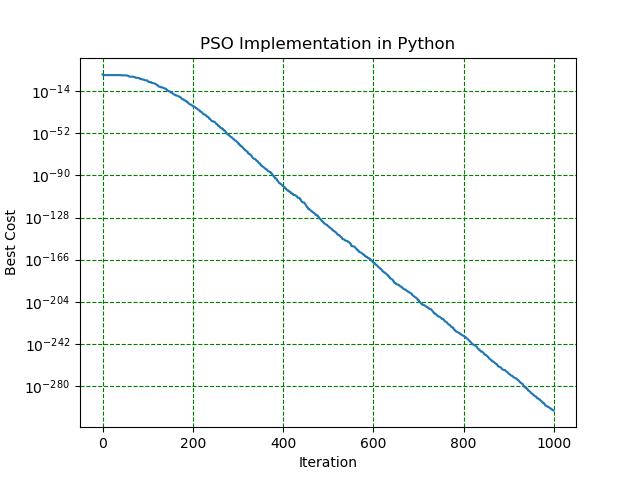
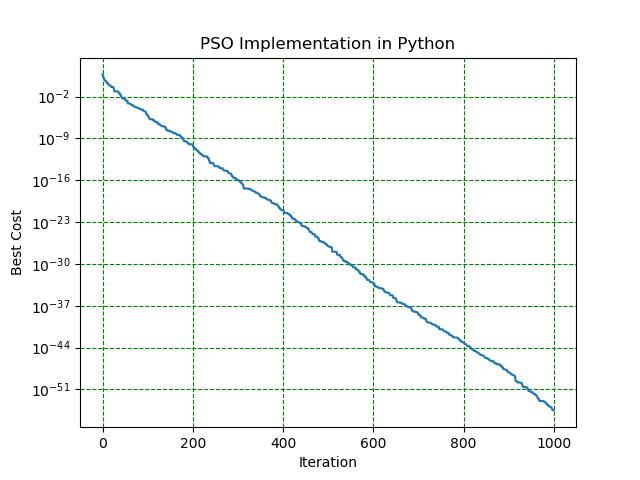
Updated PSO

diff --git a/pypso.py b/pypso.py
@@ -1,21 +1,32 @@
 import numpy as np
 import matplotlib.pyplot as plt
+import time
 
 # Variables Initialization
-VarMin = -10 	# Lower Bound
-VarMax = +10 	# Upper Bound
-Dim = 5 		# dimension for PSO 
-GlobalBestCost = 1000000000000000000000000000000 # Random Large Number
+VarMin = -10.0 	# Lower Bound
+VarMax = 10.0 	# Upper Bound
+MaxVel = 0.2*(VarMax - VarMin)
+MinVel = -MaxVel
+Dim = 10 		# dimension for PSO 
+GlobalBestCost = 10000 # Random Large Number
 RecordedBestCost = []
+
+# Clerc and Kennedy (2002) Constriction Coefficient
+k = 1
+phi_1 = 2.05
+phi_2 = 2.05
+phi = phi_1 + phi_2
+chi = (2*k)/(np.abs(2-phi-np.sqrt(phi**2 - 4*phi)))
+
 # PSO parameters
 global nPop
 global Maxit
 Maxit = 1000	# Maximum iteration
 nPop = 50	    # Population size
-w = 1 			# Inertia coefficient
-damp = 0.99		# Damping ration of inertia
-c1 = 2			# Personal acceleration coefficient
-c2 = 2 			# Social acceleration coefficient
+w = chi 			# Inertia coefficient
+damp = 1		# Damping ration of inertia
+c1 = chi*phi_1			# Personal acceleration coefficient
+c2 = chi*phi_2 			# Social acceleration coefficient
 
 # Objective Function
 def Cost(arr):
@@ -67,7 +78,8 @@ for i in range(0, nPop):
 # Plotting Results
 def plot(arr):
 	plt.semilogy(arr)
-	plt.grid(b=bool, which="both", axis="both", color = 'g', linestyle = '--')
+	plt.grid(b=bool, which="both", \
+		axis="both", color = 'g', linestyle = '--')
 	plt.xlabel("Iteration")
 	plt.ylabel("Best Cost")
 	plt.title("PSO Implementation in Python")
@@ -87,12 +99,25 @@ for i in range(0, Maxit):
 		c_2 = GlobalBestPosition - particle[j].position
 
 		particle[j].velocity = w*a \
-					+ c1*np.multiply(b_1, b_2) \
-					+ c2*np.multiply(c_1, c_2) 
+			+ c1*np.multiply(b_1, b_2) \
+			+ c2*np.multiply(c_1, c_2) 
+		
+		# Apply Limits to Velocity
+		particle[j].velocity =  np.maximum(\
+			particle[j].velocity, MinVel) 
+		particle[j].velocity =  np.minimum(\
+			particle[j].velocity, MaxVel)
 
 		# Update Position
 		particle[j].position = particle[j].position \
-					+ particle[j].velocity
+			+ particle[j].velocity
+
+ 		# Apply Limits to Position
+		particle[j].position =  np.maximum(\
+			particle[j].position, VarMin)
+
+		particle[j].position =  np.minimum(\
+			particle[j].position, VarMax)
 
 		# Evaluation of Cost
 		particle[j].cost = Cost(particle[j].position)
@@ -107,7 +132,7 @@ for i in range(0, Maxit):
 			GlobalBestCost = particle[j].best.cost
 			GlobalBestPosition = particle[j].best.position
 
-		# Best Cost
+	# Best Cost
 	print "Iter: %d"%i, " Best Cost: ", GlobalBestCost
 	#print "Best Position: ",GlobalBestPosition
 	RecordedBestCost.append(GlobalBestCost)
